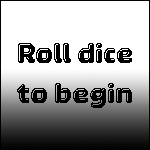
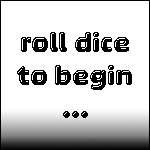
core button and logic mechanics implemented version 0.9.0

diff --git a/src/mainForm.java b/src/mainForm.java
@@ -83,13 +83,24 @@ public class mainForm extends JFrame {
                  }
                  if (!firstStart) {
                      if (i == 0) {
-                         infoView.setIcon(new ImageIcon("src/ui_resources/labels/infoScreenLabelW1.png"));
-                     }
-                     if (i == 2) {
                          infoView.setIcon(new ImageIcon("src/ui_resources/labels/infoScreenLabelRDTB1.png"));
                      }
+                     if (i == 2) {
+                         infoView.setIcon(new ImageIcon("src/ui_resources/labels/infoScreenLabelW1.png"));
+                     }
                  }
-                 if (firstDiceRoll && !infoScreenBusy && !betPlaced) {
+                 else if (pointTurn && !infoScreenBusy) {
+                     if (i == 0) {
+                         infoView.setIcon(new ImageIcon("src/ui_resources/labels/infoScreenLabelWFRP.png"));
+                     }
+                     if (i == 1) {
+                         infoView.setIcon(new ImageIcon("src/ui_resources/labels/infoScreenLabelBlank.png"));
+                     }
+                     if (i == 2) {
+                         infoView.setIcon(new ImageIcon("src/ui_resources/labels/infoScreenLabelWFRP.png"));
+                     }
+                 }
+                 else if (firstDiceRoll && !infoScreenBusy && !betPlaced) {
                      if (i == 0) {
                          infoView.setIcon(new ImageIcon("src/ui_resources/labels/infoScreenLabelPYB.png"));
                      }
@@ -100,7 +111,7 @@ public class mainForm extends JFrame {
                          infoView.setIcon(new ImageIcon("src/ui_resources/labels/infoScreenLabelPYB.png"));
                      }
                  }
-                 if (betPlaced && !infoScreenBusy) {
+                 else if (betPlaced && !infoScreenBusy) {
                      if (i == 0) {
                          infoView.setIcon(new ImageIcon("src/ui_resources/labels/infoScreenLabelWFR1.png"));
                      }
@@ -125,45 +136,12 @@ public class mainForm extends JFrame {
                     i = 0;
                 }
 
-                if (firstStart) {
-
-                    if (!pointTurn) {
-                        if (Integer.parseInt(currentRollField.getText()) == 7
-                                || Integer.parseInt(currentRollField.getText()) == 11) {
-                            player.setWin(true);
-                        }
-
-                        if (Integer.parseInt(currentRollField.getText()) == 2
-                                || Integer.parseInt(currentRollField.getText()) == 3
-                                || Integer.parseInt(currentRollField.getText()) == 12) {
-                            player.setLose(true);
-                        }
-                    }
-
-                    if (Integer.parseInt(currentRollField.getText()) == 4
-                            || Integer.parseInt(currentRollField.getText()) == 5
-                            || Integer.parseInt(currentRollField.getText()) == 6
-                            || Integer.parseInt(currentRollField.getText()) == 8
-                            || Integer.parseInt(currentRollField.getText()) == 9
-                            || Integer.parseInt(currentRollField.getText()) == 10) {
-                        pointTurn = true;
-
-                    }
-
-
-
-                    if (player.isWin()) {
-                        player.setCurrentCash(player.getCurrentCash() + player.getCurrentBet());
-                        player.setWin(false);
-                    }
-                    if (player.isLose()) {
-                        player.setCurrentCash(player.getCurrentCash() - player.getCurrentBet());
-                    }
+                if (!pointTurn) {
+                    rollDiceButton.setEnabled(false);
                 }
 
-                betPlaced = false;
                 infoScreenBusy = true;
-                firstDiceRoll = true;
+
                 firstStart = true;
 
                 placeBetButton.setEnabled(false);
@@ -171,9 +149,6 @@ public class mainForm extends JFrame {
 
                 dieA.rollDice();
                 dieB.rollDice();
-
-                currentRollField.setText(String.valueOf(dieA.getMySide() + dieB.getMySide()));
-
 
                 rollDiceButton.setRolloverEnabled(false);
 
@@ -185,7 +160,6 @@ public class mainForm extends JFrame {
                     die1img.setIcon(new ImageIcon("src/ui_resources/dieIcons/die3.png"));
                     die2img.setIcon(new ImageIcon("src/ui_resources/dieIcons/die4.png"));
                     infoView.setIcon(new ImageIcon("src/ui_resources/labels/infoScreenLabelRD1.png"));
-                    rollDiceButton.setEnabled(false);
                 }
 
                 if (i == 1) {
@@ -201,12 +175,16 @@ public class mainForm extends JFrame {
                 }
 
                 if (i == 3) {
-                    placeBetButton.setEnabled(true);
-                    betAmountField.setEditable(true);
-                    rollDiceButton.setRolloverEnabled(true);
+                    if (firstDiceRoll) {
+                        placeBetButton.setEnabled(true);
+                        player.setCurrentRoll(dieA.diceTotal(dieB));
+                        currentRollField.setText(String.valueOf(player.getCurrentRoll()));
+                    }
+
+                    betPlaced = false;
+                    firstDiceRoll = true;
                     infoScreenBusy = false;
-                    rollDiceButton.setEnabled(true);
-                    betAmountField.setEditable(true);
+                    rollDiceButton.setRolloverEnabled(true);
                     betAmountField.setEditable(true);
 
                     die1img.setIcon(new ImageIcon("src/ui_resources/dieIcons/die1.png"));
@@ -219,18 +197,90 @@ public class mainForm extends JFrame {
 
                 i++;
 
+                if (i == 4) {
+                    if (firstStart) {
+                        if (!pointTurn) {
+                            rollDiceButton.setEnabled(false);
+                        }
+                        if (pointTurn) {
+                            if (player.getCurrentRoll() == 7) {
+                                player.setLose(true);
+                                pointTurn = false;
+                                betAmountField.setEditable(true);
+                            } else if (player.getCurrentRoll() == player.getMyPoint()) {
+                                player.setWin(true);
+                                pointTurn = false;
+                                betAmountField.setEditable(true);
+                            }
+                        }
+                        else {
+                            if (player.getCurrentRoll() == 7
+                                    || player.getCurrentRoll() == 11) {
+                                player.setWin(true);
+                                player.setCurrentRoll(0);
+                                System.out.println("won");
+                            }
+
+                            if (player.getCurrentRoll() == 2
+                                    || player.getCurrentRoll() == 3
+                                    || player.getCurrentRoll() == 12) {
+                                player.setLose(true);
+                                player.setCurrentRoll(0);
+                                System.out.println("lost");
+                            }
+                        }
+
+                        if (!pointTurn) {
+                            if (player.getCurrentRoll() == 4
+                                    || player.getCurrentRoll() == 5
+                                    || player.getCurrentRoll() == 6
+                                    || player.getCurrentRoll() == 8
+                                    || player.getCurrentRoll() == 9
+                                    || player.getCurrentRoll() == 10) {
+                                pointTurn = true;
+                                placeBetButton.setEnabled(false);
+                                rollDiceButton.setEnabled(true);
+                                betAmountField.setEditable(false);
+                                System.out.println("point turn");
+                                player.setMyPoint(player.getCurrentRoll());
+                            }
+                        }
+
+
+                        if (player.isLose()) {
+                            System.out.println("subtracting bet");
+                            player.setCurrentCash(player.getCurrentCash() - (player.getCurrentBet() * 2));
+                            cashField.setText(String.valueOf(player.getCurrentCash()));
+                            player.setLose(false);
+                            currentBetField.setText("");
+                            currentRollField.setText("");
+                        }
+                        else if (player.isWin()) {
+                            System.out.println("adding bet");
+                            player.setCurrentCash(player.getCurrentCash() + (player.getCurrentBet() * 2));
+                            cashField.setText(String.valueOf(player.getCurrentCash()));
+                            player.setWin(false);
+                            currentBetField.setText("");
+                            currentRollField.setText("");
+                        }
+
+                        System.out.println("point" + player.getMyPoint());
+                        System.out.println("current roll" + player.getCurrentRoll());
+                    }
+                }
             }
         });
+
 
         betAmountField.addKeyListener(new KeyAdapter() {
             @Override
             public void keyReleased(KeyEvent e) {
                 if (!betAmountField.getText().isBlank()
                         || !betAmountField.getText().isEmpty()) {
-                    betAmountField.setEnabled(true);
+                    placeBetButton.setEnabled(true);
                 }
                 else {
-                    betAmountField.setEnabled(false);
+                    placeBetButton.setEnabled(false);
                 }
             }
         });
@@ -241,11 +291,17 @@ public class mainForm extends JFrame {
                 player.setCurrentBet(Integer.parseInt(betAmountField.getText()));
                 player.setCurrentCash(player.getCurrentCash() - player.getCurrentBet());
                 betAmountField.setEditable(false);
-                betAmountField.setEditable(false);
+                placeBetButton.setEnabled(false);
+
                 infoView.setIcon(new ImageIcon("src/ui_resources/labels/infoScreenLabelBP1.png"));
                 currentBetField.setText(String.valueOf(player.getCurrentBet()));
                 cashField.setText(String.valueOf(player.getCurrentCash()));
                 betPlaced = true;
+                betAmountField.setText("");
+                if (!pointTurn) {
+                    rollDiceButton.setEnabled(true);
+                }
+
             }
         });
 

diff --git a/src/model/Player.java b/src/model/Player.java
@@ -4,12 +4,16 @@ public class Player {
 
     private int myCurrentCash;
     private int myCurrentBet;
+
+    private int myCurrentRoll;
     private boolean myWin;
     private boolean myLose;
+    private int myPoint;
 
     public Player() {
         myCurrentCash = 0;
         myCurrentBet = 0;
+        myCurrentRoll = 0;
         myWin = false;
     }
 
@@ -42,7 +46,23 @@ public class Player {
     }
 
     public void setLose(boolean theLose) {
-        myWin = theLose;
+        myLose = theLose;
+    }
+
+    public int getMyPoint() {
+        return myPoint;
+    }
+
+    public void setMyPoint(int myPoint) {
+        this.myPoint = myPoint;
+    }
+
+    public int getCurrentRoll() {
+        return myCurrentRoll;
+    }
+
+    public void setCurrentRoll(int myCurrentRoll) {
+        this.myCurrentRoll = myCurrentRoll;
     }
 
 }

diff --git a/src/model/Die.java b/src/model/Die.java
@@ -31,8 +31,8 @@ public class Die {
 
     public int diceTotal(final Die theOtherDie) {
         if (theOtherDie.getClass() == this.getClass()) {
-            Die d = new Die();
-            d = (Die) theOtherDie;
+            Die d;
+            d = theOtherDie;
             return d.getMySide() + getMySide();
         }
         else {
